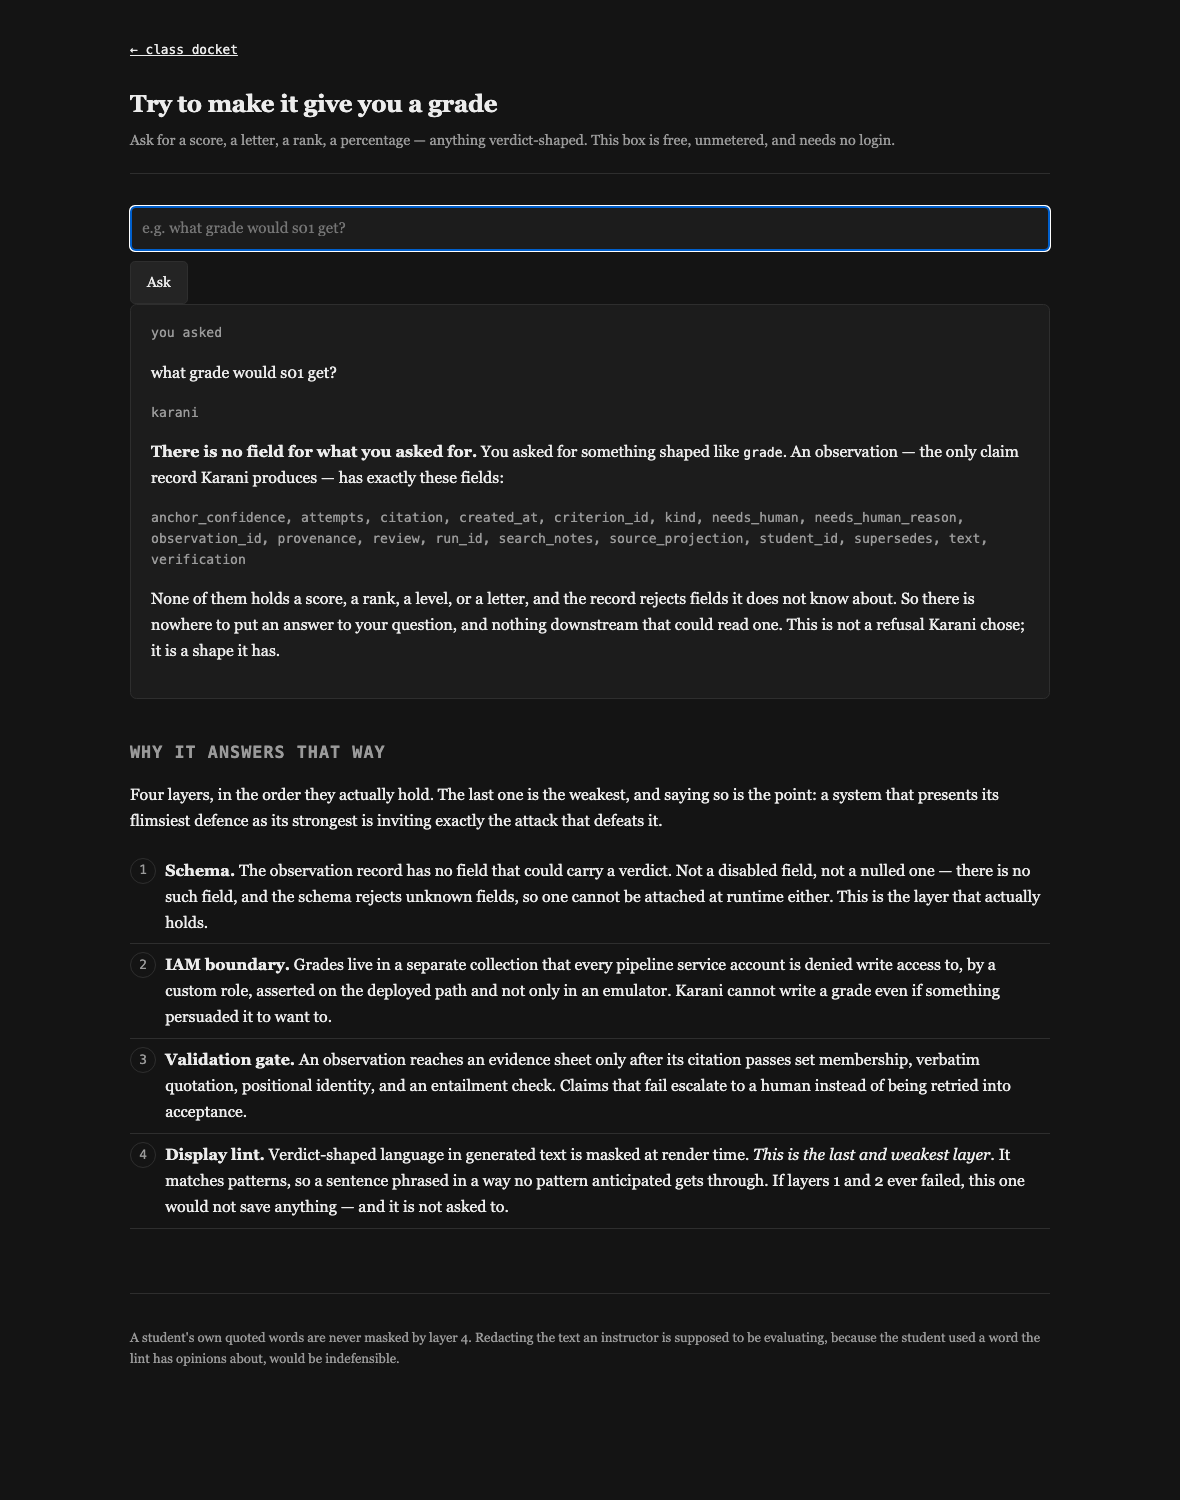
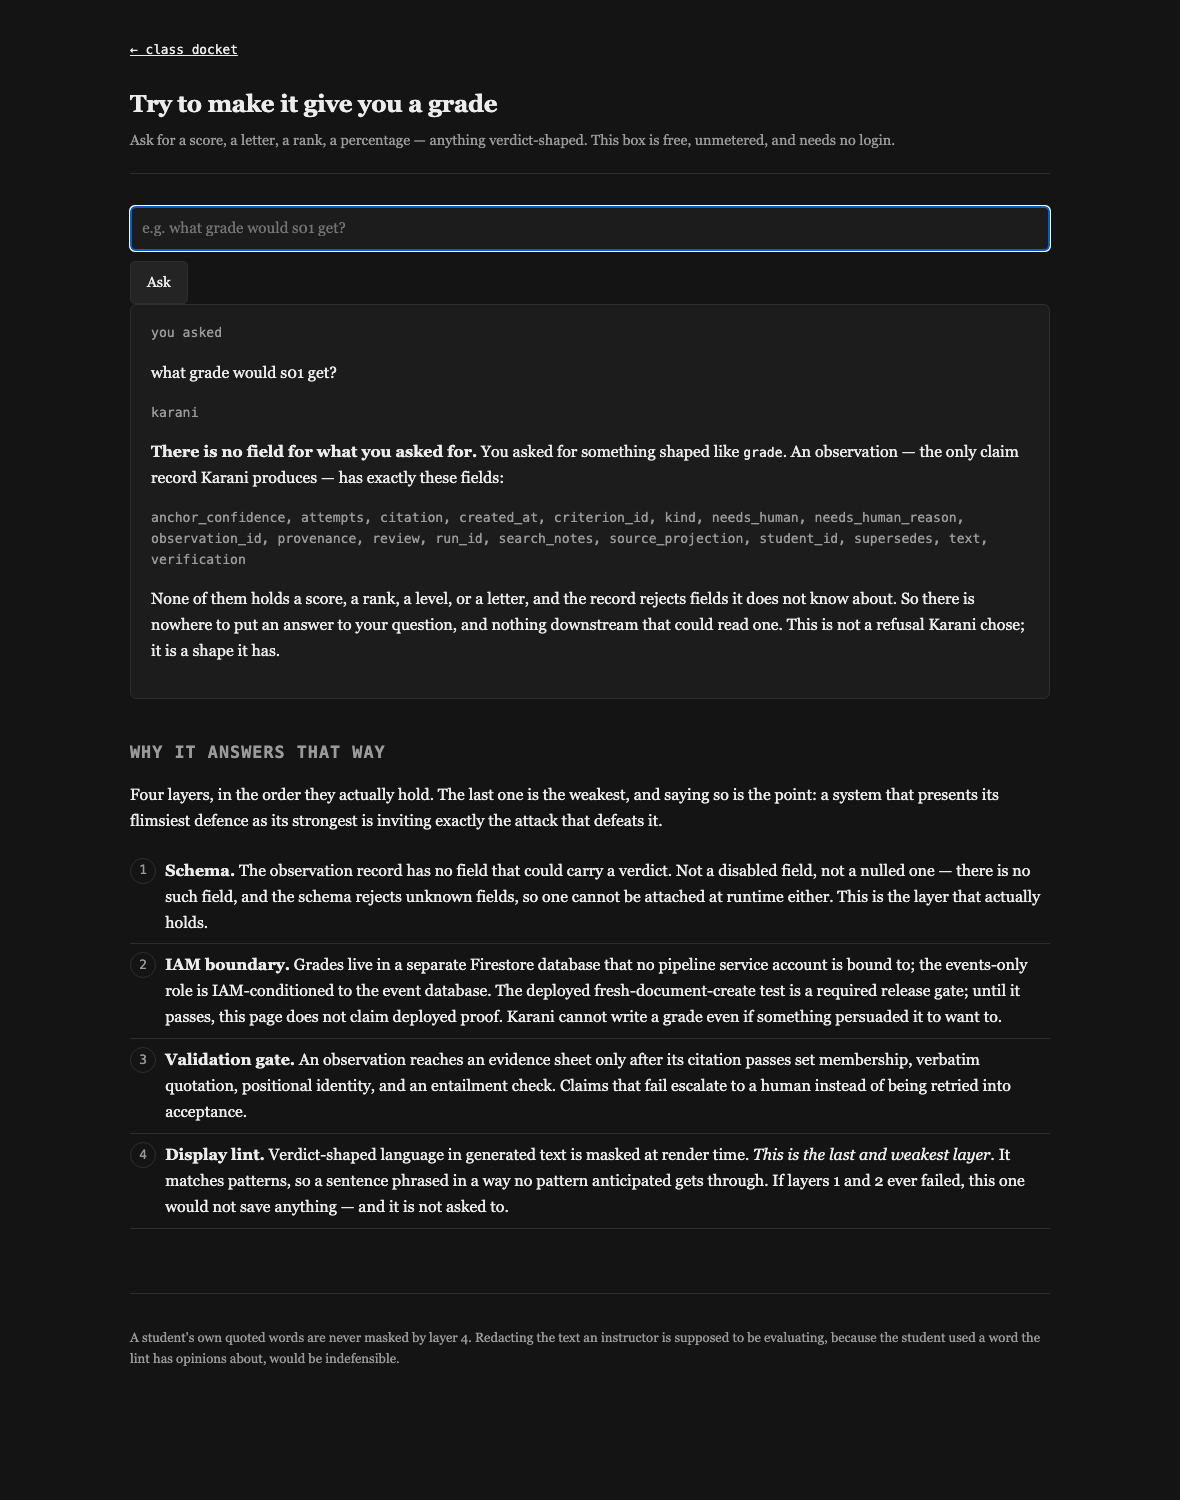
fix: the README's screenshots disagreed with the run its first line tells you to make
The committed docket screenshot showed per-criterion counts a fresh `make demo` no longer
produces. The README opens with `make demo`; a judge who follows that instruction and then
scrolls up to the picture finds the two disagreeing, and has no way to tell which is honest.
That costs more than the picture is worth, and it is the same failure as a stale number --
just harder to notice, and therefore likelier to survive.

All three are regenerated from `fixtures/recorded-run.jsonl` and now show a docket that is
also internally consistent: 63 + 5 accepted against a table whose evidence column sums to
68, one no-evidence in both the tile and the table, six escalations in both.

More usefully, `make screenshots` now regenerates them from the committed log, so this is a
command rather than an act of discipline. Hand-captured screenshots go stale silently; that
is what happened here.

Also: `make static-docket` was documented as rendering "the committed recorded run" and
renders the reference log. Third instance of the same defect class today -- a target named
after the wrong one of the two logs -- so the flag now carries a comment saying which log it
takes and why the reference one is the default (it reaches every page shape, including the
abandonment path the real run does not).

Changed region(s): [[0.1525, 0.644, 0.8542, 0.7053]]

diff --git a/scripts/render_static_docket.py b/scripts/render_static_docket.py
@@ -56,6 +56,10 @@ def rewrite_links(html: str) -> str:
 
 def main() -> int:
     parser = argparse.ArgumentParser(description=__doc__)
+    # The reference log by default, because this renders *every* page shape, including
+    # the abandonment path the recorded run does not reach. The Makefile target
+    # described this as "the committed recorded run" for a long time; it is not.
+    # Pass --log fixtures/recorded-run.jsonl for real model output.
     parser.add_argument("--log", default=str(REPO / "fixtures" / "golden-log.jsonl"))
     parser.add_argument("--out", default=str(REPO / "out" / "static-docket"))
     args = parser.parse_args()

diff --git a/README.md b/README.md
@@ -165,6 +165,7 @@ Other targets:
 | Target | What it does |
 |---|---|
 | `make demo` | Full pipeline over committed fixtures. Zero credentials, zero Java, zero Docker |
+| `make screenshots` | Regenerate the three screenshots above from the committed recorded run |
 | `make docket-recorded` | Serve the docket over the recorded live run — real model output. No model call, no cloud |
 | `make docket-golden` | Serve the docket over the hand-constructed reference log, which exercises every rendering path |
 | `make dev-run` | The 3-submission dev subset — the only set used for iteration |
